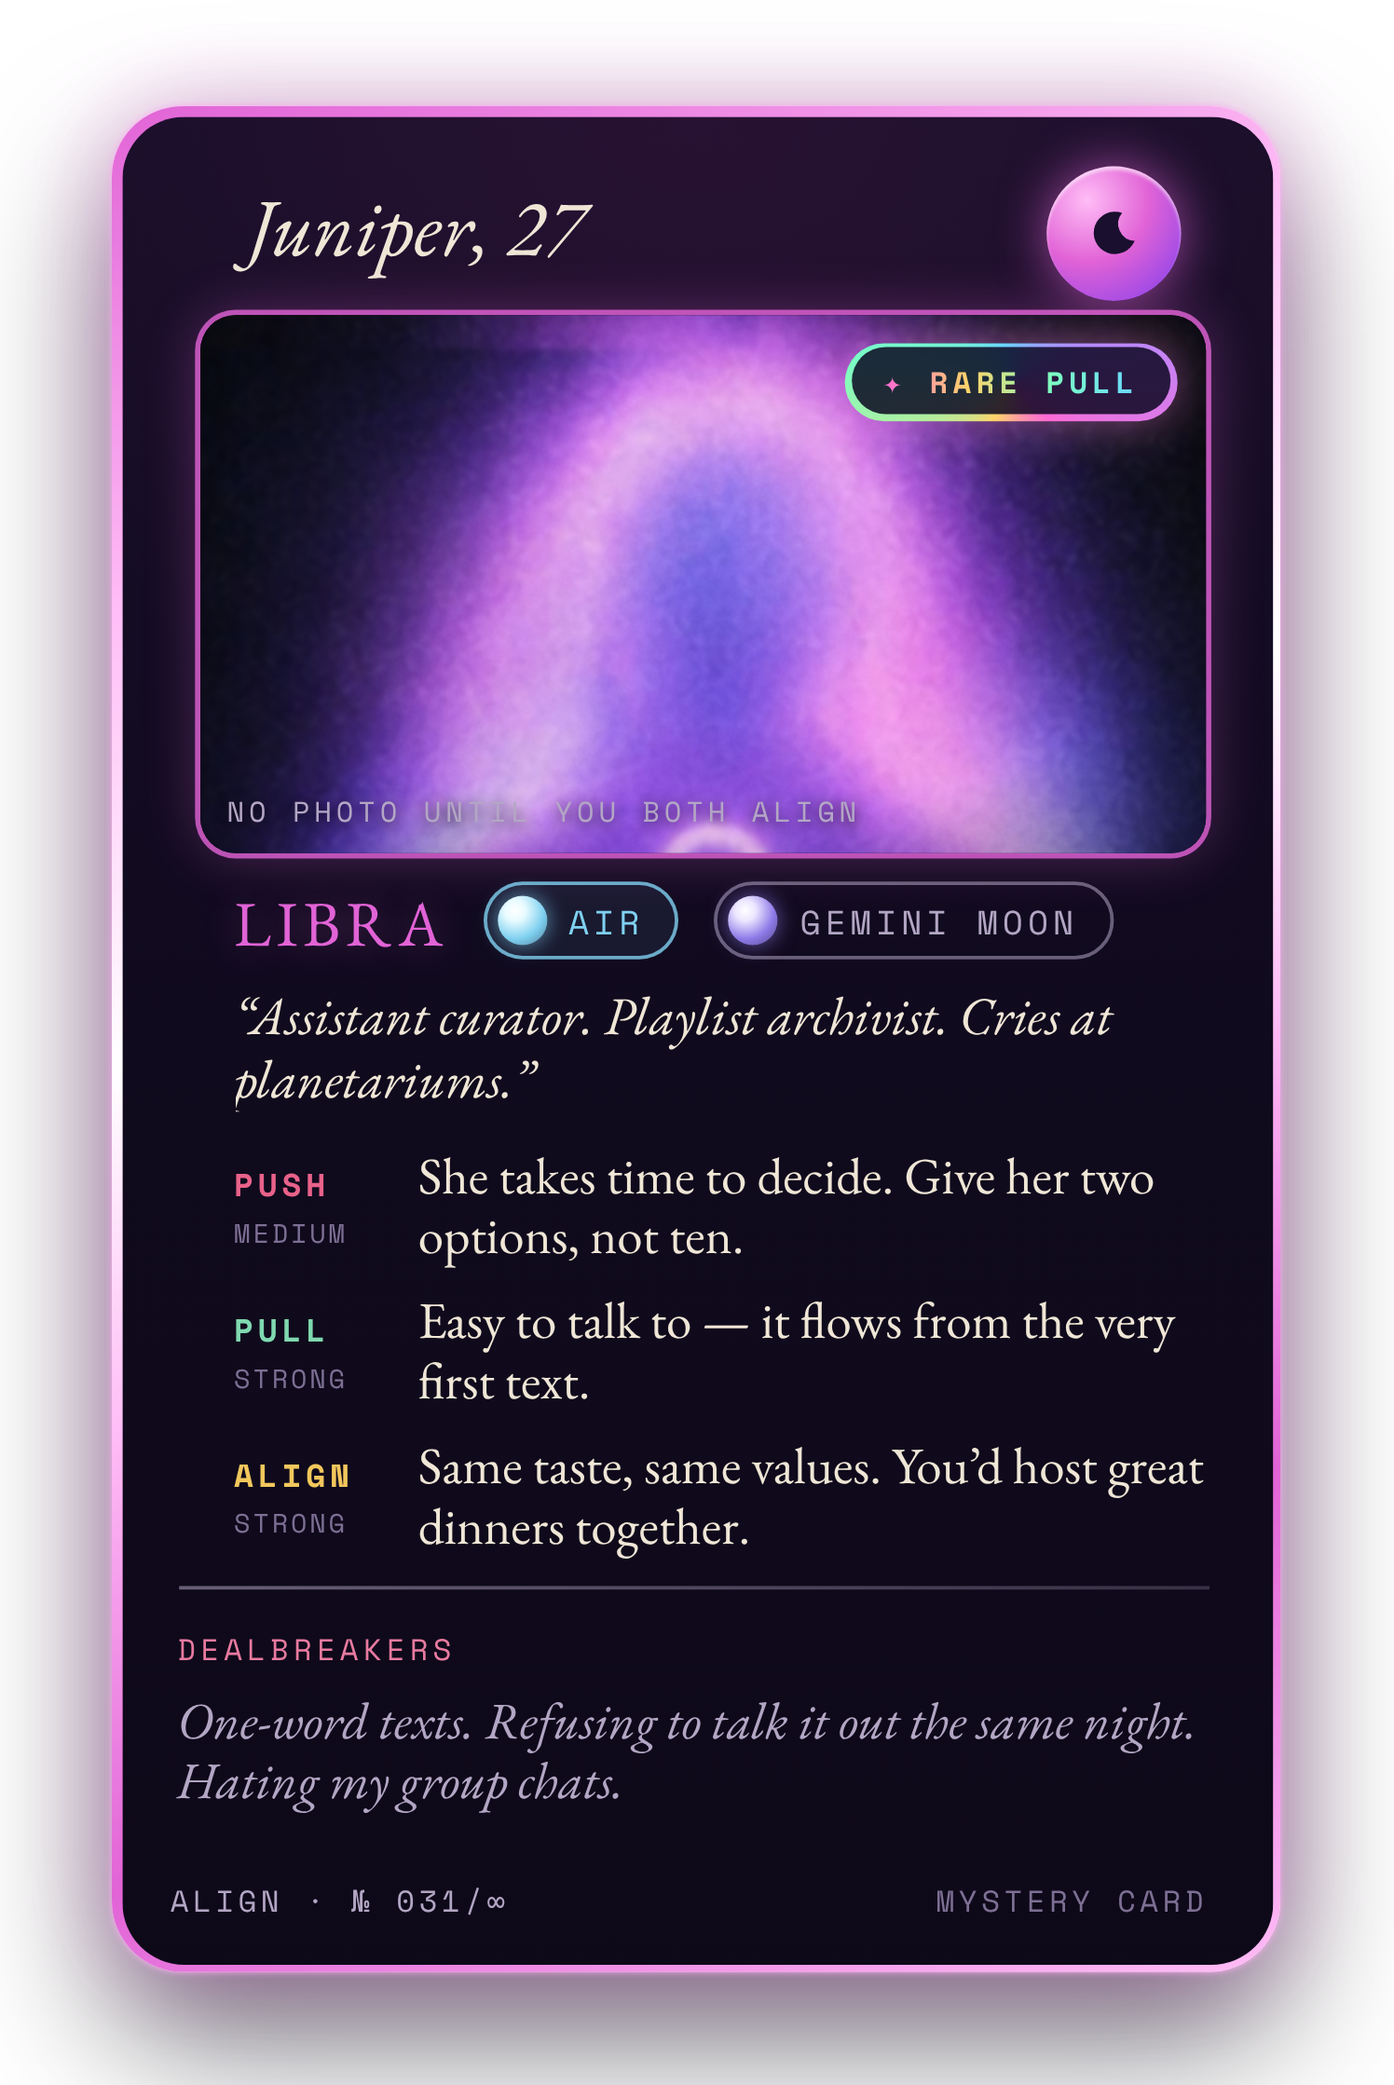
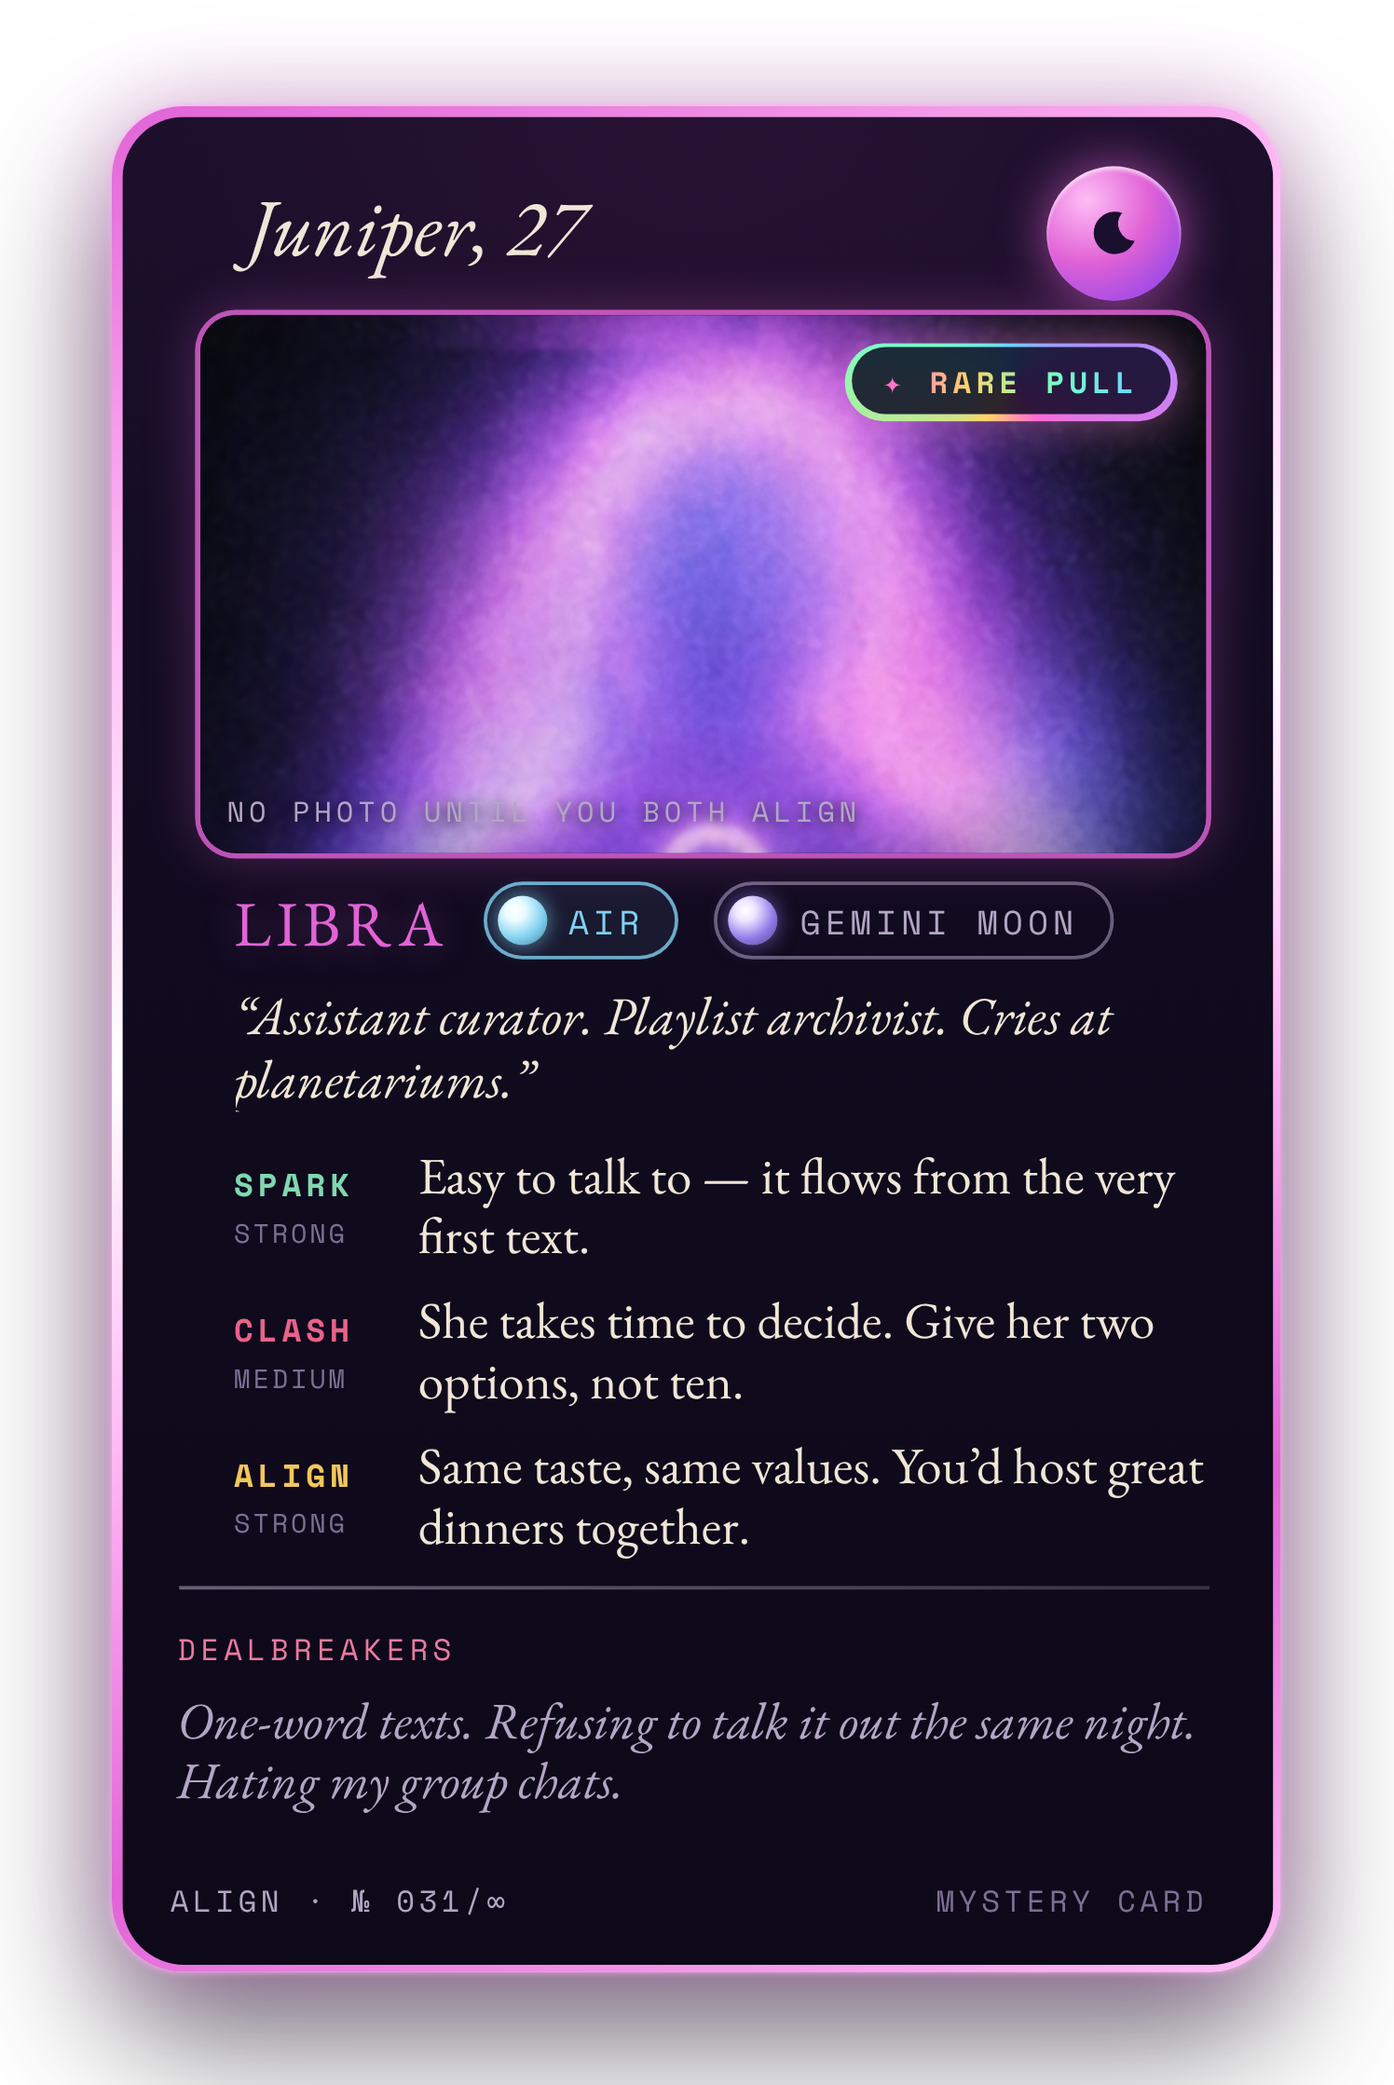
Promo: Spark · Clash · Align cards, Juniper past her shoulders, the website's pixel "stars aligned"
- Deck cards (card-profile-1…6, peek) re-captured with the beta's
  Spark / Clash / Align rows in place of Push / Pull / Align.
- card-reveal.png re-captured with Juniper's photo framed lower (72%), so
  it runs past her shoulders instead of stopping at her chin; the S3 photo
  window matches it (imgTop 629).
- S3's lock is now the beta website's pixel moment: sparkle swirls in, the
  seven chakra stars drop into a column with a beam, then dotted rings,
  debris and twinkles, stepped at 15 fps on a coarse pixel grid. It
  replaces the glowing stars, lines, beam, dust, shockwave rings, god-rays
  and the gold burst at 8.72; the rings land on the same beat.

Claude-Session: https://claude.ai/code/session_01WS8NKXHK6WXc3JEpqqCuLq

Changed region(s): [[0.3075, 0.555, 0.8302, 0.6783], [0.1537, 0.555, 0.246, 0.6783]]

diff --git a/promo/src/scenes/s3-veil.js b/promo/src/scenes/s3-veil.js
@@ -5,7 +5,7 @@ import { VERT, W, H, A, IMG, PEOPLE, SANS, SERIF, MONO, fill, img, Ticks, makeCa
 // card-reveal.png 1560×2740: card body x 66..1494; photo window x 118..1443, y 314..1207.
 // The window shows juniper.jpg cover-fitted to the window width (1325px → image
 // 1325×1767), with the window top sitting 312px below the image top.
-const REV = { w: 1560, h: 2740, win: { x: 118, y: 314, w: 1325, h: 893 }, imgTop: 582 } // imgTop raised (was 312) so her head sits higher in the window with headroom, chin clear
+const REV = { w: 1560, h: 2740, win: { x: 118, y: 314, w: 1325, h: 893 }, imgTop: 629 } // 72% down the photo, matching card-reveal.png: her head near the top, framed past the shoulders instead of at the neck
 const D = VERT ? 0.53 : 0.35 // display scale → card body ≈ 500px wide, 959px PNG tall (vertical: ≈ 757px wide)
 // card-back.png 1528×2347: body x 120..1439 (1320 wide) → match the front body width
 const BACK = { w: 1528, h: 2347, markX: 782, markY: 1134 }
@@ -216,6 +216,96 @@ const SQ = VERT ? 1.5 : 0.62                                  // orbit ellipse s
 const SZ = VERT ? 1.35 : 1                       // star size multiplier
 const Z_PUSH = VERT ? 1.42 : 1.6                 // camera zoom when parked on the photo window
 
+// ── "the stars aligned", ported from the beta website (same sprites, beats and 15 fps stepping) ──
+// t0 is set so the rings burst exactly on LOCK. All coords are art pixels on a 1/PIX grid over the frame.
+const PIX = VERT ? 7 : 4                         // screen px per art pixel
+const PA = { t0: LOCK - 1.6, first: 1.05, step: 0.07, beam: 1.54, rings: 1.6, end: 3.5, fps: 15 }
+const PA_SPARKS = ['#f2c75c', '#fff4cf', '#ffbdf6', '#c9b6f0', '#efe6d6']
+const PA_SPRITES = [
+  ['X'],
+  ['.X.', 'XWX', '.X.'],
+  ['..X..', '..X..', 'XXWXX', '..X..', '..X..'],
+  ['...X...', '...X...', '..XWX..', 'XXWWWXX', '..XWX..', '...X...', '...X...'],
+  ['....X....', '....X....', '...XWX...', '..X.W.X..', 'XXWWWWWXX', '..X.W.X..', '...XWX...', '....X....', '....X....'],
+].map((rows) => rows.map((r) => [...r]))
+function paStar(ctx, x, y, size, color) {
+  const s = PA_SPRITES[Math.max(0, Math.min(PA_SPRITES.length - 1, size))]
+  const o = (s.length - 1) / 2, cx = Math.round(x), cy = Math.round(y)
+  for (let r = 0; r < s.length; r++) for (let c = 0; c < s[r].length; c++) {
+    const ch = s[r][c]; if (ch === '.') continue
+    ctx.fillStyle = ch === 'W' ? '#ffffff' : color; ctx.fillRect(cx + c - o, cy + r - o, 1, 1)
+  }
+}
+function paRing(ctx, x, y, rad, color) {
+  const n = Math.max(12, Math.round(rad * 2.2)); ctx.fillStyle = color
+  for (let i = 0; i < n; i++) { const a = (i / n) * Math.PI * 2; ctx.fillRect(Math.round(x + Math.cos(a) * rad), Math.round(y + Math.sin(a) * rad * 0.86), 1, 1) }
+}
+// the card the moment plays over (screen px): sets how far the swirl and twinkles reach
+const PA_CARD = VERT ? { w: 700, h: 1100 } : { w: 460, h: 720 }
+const PA_SET = (() => {
+  const r = rng(17 + 13)
+  const cx = CC.x / PIX, cy = CC.y / PIX
+  const gap = Math.round(((COL_Y(0) - COL_Y(1))) / PIX)
+  const seven = CHAKRA_HEX.map((c, i) => ({ x: cx, y: COL_Y(i) / PIX, c, at: PA.first + i * PA.step }))
+  const swirl = Array.from({ length: 28 }, (_, i) => ({ a: r() * Math.PI * 2, d: 0.6 + r() * 0.4, spin: (r() < 0.5 ? -1 : 1) * (1.6 + r() * 1.4), slot: seven[i % 7], c: PA_SPARKS[i % 5], born: r() * 0.35, ph: Math.floor(r() * 4) }))
+  const debris = seven.flatMap((s) => Array.from({ length: 9 }, () => { const a = r() * Math.PI * 2, v = 40 + r() * 70; return { x: s.x, y: s.y, vx: Math.cos(a) * v, vy: Math.sin(a) * v - 14, c: r() < 0.3 ? '#fff4cf' : s.c, life: 0.9 + r() * 0.9 } }))
+  const twinkles = Array.from({ length: 14 }, () => ({ x: cx + (r() - 0.5) * (PA_CARD.w / PIX) * 1.3, y: cy + (r() - 0.5) * (PA_CARD.h / PIX) * 1.05, c: PA_SPARKS[Math.floor(r() * 5)], ph: Math.floor(r() * 6), at: 0.25 + r() * 0.9 }))
+  return { cx, cy, gap, seven, swirl, debris, twinkles, rx: PA_CARD.w / PIX, ry: (PA_CARD.h * 0.725) / PIX }
+})()
+/** draws the pixel moment for time t on ctx (art-pixel grid); marks ctx.canvas._on when anything is drawn */
+function drawPixelAlign(ctx, time) {
+  const cv = ctx.canvas
+  ctx.clearRect(0, 0, cv.width, cv.height); cv._on = false
+  const local = time - PA.t0
+  if (local < 0 || local >= PA.end || time > FLIP_IN.m + 0.12) return   // clear the photo before the veil lifts
+  cv._on = true
+  const f = Math.floor(local * PA.fps), t = f / PA.fps
+  const { cx, cy, gap, seven, swirl, debris, twinkles, rx, ry } = PA_SET
+  if (t < PA.rings) {
+    for (const s of swirl) {
+      if (t < s.born || t >= s.slot.at) continue
+      const p = clamp((t - s.born) / (s.slot.at - s.born)) ** 2.4
+      const a = s.a + s.spin * p * Math.PI
+      paStar(ctx, s.slot.x + Math.cos(a) * rx * s.d * (1 - p), s.slot.y + Math.sin(a) * ry * s.d * (1 - p), p > 0.7 ? 2 : [1, 2, 3, 2][(f + s.ph) % 4], p > 0.55 ? s.slot.c : s.c)
+    }
+    for (const s of seven) {
+      if (t < s.at) continue
+      const since = t - s.at
+      paStar(ctx, s.x, s.y, since < 0.07 ? 4 : 3, s.c)
+      if (since < 0.2) { const k = 6 + Math.round(since * 60); ctx.fillStyle = s.c; ctx.fillRect(s.x - k, s.y, 2, 1); ctx.fillRect(s.x + k - 1, s.y, 2, 1) }
+    }
+    if (t >= PA.beam) {
+      const top = seven[6].y - gap * 0.9, bot = seven[0].y + gap * 0.9, even = f % 2 === 0
+      ctx.fillStyle = even ? '#ffffff' : '#fff4cf'; ctx.fillRect(Math.round(cx), Math.round(top), 1, Math.round(bot - top))
+      ctx.fillStyle = even ? 'rgba(242,199,92,0.9)' : 'rgba(255,255,255,0.7)'
+      ctx.fillRect(Math.round(cx) - 1, Math.round(top + gap * 0.4), 1, Math.round(bot - top - gap * 0.8))
+      ctx.fillRect(Math.round(cx) + 1, Math.round(top + gap * 0.4), 1, Math.round(bot - top - gap * 0.8))
+      for (const s of seven) paStar(ctx, s.x, s.y, 4, s.c)
+    }
+  } else {
+    const tb = t - PA.rings
+    // rings grow at the website's rate relative to the card (its card was 110 art px wide)
+    const k = rx / 110
+    if (tb < 0.6) {
+      paRing(ctx, cx, cy, (8 + tb * 230) * k, tb < 0.3 ? '#fff4cf' : '#f2c75c')
+      if (tb > 0.08) paRing(ctx, cx, cy, (4 + (tb - 0.08) * 170) * k, '#ffbdf6')
+    }
+    for (const d of debris) {
+      const life = 1 - tb / d.life
+      if (life <= 0 || (life < 0.25 && f % 2)) continue
+      const x = d.x + d.vx * k * tb, y = d.y + (d.vy * tb + 26 * tb * tb) * k
+      ctx.fillStyle = d.c
+      for (let j = 1; j <= 3; j++) ctx.fillRect(Math.round(x - d.vx * k * 0.022 * j), Math.round(y - (d.vy + 52 * tb) * k * 0.022 * j), 1, 1)
+      paStar(ctx, x, y, life > 0.7 ? 3 : life > 0.4 ? 2 : 1, d.c)
+    }
+    if (tb < 0.2) for (const s of seven) paStar(ctx, s.x, s.y, 4, s.c)
+    for (const s of twinkles) {
+      if (tb < s.at || (tb > 1.55 && f % 2)) continue
+      paStar(ctx, s.x, s.y, [0, 1, 2, 3, 2, 1][(f + s.ph) % 6], s.c)
+    }
+  }
+}
+
 function starState(i, t) {
   const L = STAR_LOCK[i]
   const e = STAR_IN + ENTER_ORDER[i] * 0.065
@@ -419,6 +509,8 @@ export function sceneVeil(stage) {
   const fxCv = el('canvas', { position: 'absolute', left: 0, top: 0, width: W + 'px', height: H + 'px' }, shakeBox)
   fxCv.width = W; fxCv.height = H
   const fx = fxCv.getContext('2d')
+  const pxCv = document.createElement('canvas'); pxCv.width = Math.ceil(W / PIX); pxCv.height = Math.ceil(H / PIX)
+  const px = pxCv.getContext('2d')
   const DUST = (() => { const r = rng(515); return Array.from({ length: 170 }, (_, i) => ({ x: r() * W, y: r() * H, s: 0.7 + r() * 1.8, a: 0.35 + r() * 0.65, col: i % 5 === 0 ? '242,199,92' : i % 7 === 0 ? CHAKRA[i % 7].join(',') : '255,246,234', ph: r() * 6.28 })) })()
   const SPK2 = (() => { const r = rng(616); return Array.from({ length: 18 }, () => ({ a: r() * 6.2832, r0: 380 + r() * 80, r1: 560 + r() * 160, d: r() * 0.16, s: 10 + r() * 16, gold: r() < 0.45 })) })()
 
@@ -518,7 +610,7 @@ export function sceneVeil(stage) {
       const fl = t < LOCK ? ease.inQuad(prog(t, LOCK - 0.06, LOCK)) * 0.5 : 0.78 * (1 - ease.outCubic(prog(t, LOCK, LOCK + 0.32)))
       bigFlash.style.opacity = String(fl)
       const rayO = t < LOCK ? 0.2 * ease.inQuad(prog(t, 8.4, LOCK)) : 0.7 * (1 - ease.inOutQuad(prog(t, LOCK + 0.05, 9.6)))
-      rays.style.opacity = String(rayO)
+      rays.style.opacity = String(0 * rayO)
       rays.style.transform = `rotate(${(t - 8) * 7}deg) scale(${t < LOCK ? 0.7 : lerp(0.75, 1.15, ease.outCubic(prog(t, LOCK, 9.6)))})`
 
       // ══ reveal card: flip in, veil lift, aura-cam, resolve ══
@@ -605,102 +697,12 @@ export function sceneVeil(stage) {
       // ══ canvas: dust, trails, lines, stars, rings, resolve sparkles ══
       fx.setTransform(1, 0, 0, 1, 0, 0); fx.clearRect(0, 0, W, H)
       fx.globalCompositeOperation = 'lighter'
-      // dust pulled toward the line, then blown out by the shockwave
-      const dustIn = prog(t, 7.75, 8.1) * (1 - ease.outQuad(prog(t, LOCK, LOCK + 0.45)))
-      if (dustIn > 0) {
-        const pullAt = (tt) => ease.inCubic(prog(tt, 7.9, LOCK)) * 0.94
-        const blow = ease.outCubic(prog(t, LOCK, LOCK + 0.75))
-        for (const d of DUST) {
-          const pos = (tt) => {
-            const pl = pullAt(tt)
-            let x = lerp(d.x, CC.x + (d.x - CC.x) * 0.03, pl), y = lerp(d.y, lerp(d.y, CC.y, 0.25), pl)
-            if (tt > LOCK) { const dx = x - CC.x, dy = y - CC.y, l = Math.hypot(dx, dy) || 1; x += dx / l * 900 * blow; y += dy / l * 900 * blow }
-            return [x, y]
-          }
-          const [x, y] = pos(t), [px, py] = pos(t - (t > LOCK ? 0.012 : 0.05))
-          const al = d.a * dustIn * (0.35 + 0.65 * ten + 0.6 * post) * (0.6 + 0.4 * Math.sin(t * 6 + d.ph))
-          if (al < 0.02) continue
-          fx.strokeStyle = `rgba(${d.col},${al.toFixed(3)})`; fx.lineWidth = d.s; fx.lineCap = 'round'
-          fx.beginPath(); fx.moveTo(px, py); fx.lineTo(x + (x === px ? 0.01 : 0), y); fx.stroke()
-        }
-      }
-      // stars
-      const collapse = ease.inCubic(prog(t, FLIP_IN.a, FLIP_IN.m + 0.04))
-      if (t < FLIP_IN.m + 0.05) {
-        const SS = CHAKRA_HEX.map((_, i) => starState(i, t))
-        // constellation lines snapping between neighbours, then the column beam
-        for (let i = 0; i < 6; i++) {
-          const A1 = SS[i], B1 = SS[i + 1]
-          if (!A1 || !B1) continue
-          const mc = Math.min(A1.c, B1.c)
-          const lockT = Math.max(STAR_LOCK[i], STAR_LOCK[i + 1])
-          let al = 0.4 * clamp((mc - 0.4) / 0.45)
-          if (t >= lockT) al = lerp(1, 0.45, ease.outQuad(prog(t, lockT, lockT + 0.3)))
-          if (t >= LOCK) al = Math.max(al, lerp(1, 0.55, ease.outQuad(prog(t, LOCK, LOCK + 0.4))))
-          al *= 1 - collapse
-          if (al < 0.01) continue
-          fx.strokeStyle = `rgba(255,236,200,${(al * 0.35).toFixed(3)})`; fx.lineWidth = 7
-          fx.beginPath(); fx.moveTo(A1.x, A1.y); fx.lineTo(B1.x, B1.y); fx.stroke()
-          fx.strokeStyle = `rgba(255,248,236,${al.toFixed(3)})`; fx.lineWidth = 1.6
-          fx.beginPath(); fx.moveTo(A1.x, A1.y); fx.lineTo(B1.x, B1.y); fx.stroke()
-        }
-        // column beam after the lock
-        if (t >= LOCK - 0.04) {
-          const bo = (t < LOCK ? prog(t, LOCK - 0.04, LOCK) : lerp(1, 0.35, ease.outQuad(prog(t, LOCK, LOCK + 0.45)))) * (1 - collapse)
-          const BW = VERT ? 85 : 60
-          const bg = fx.createLinearGradient(CC.x - BW, 0, CC.x + BW, 0)
-          bg.addColorStop(0, 'rgba(255,240,214,0)'); bg.addColorStop(0.5, `rgba(255,244,226,${(0.55 * bo).toFixed(3)})`); bg.addColorStop(1, 'rgba(255,240,214,0)')
-          fx.fillStyle = bg; fx.fillRect(CC.x - BW, -20, BW * 2, H + 40)
-        }
-        SS.forEach((s, i) => {
-          if (!s) return
-          const rgb = CHAKRA[i].join(',')
-          // trail
-          const e0 = STAR_IN + ENTER_ORDER[i] * 0.065
-          let prev = [s.x, s.y]
-          for (let j = 1; j <= 14; j++) {
-            const tj = t - j * 0.016
-            if (tj < e0) break
-            const q = starState(i, tj); if (!q) break
-            const al = (1 - j / 15) * 0.7 * (1 - collapse)
-            fx.strokeStyle = `rgba(${rgb},${al.toFixed(3)})`; fx.lineWidth = lerp(7, 1, j / 14) * SZ
-            fx.beginPath(); fx.moveTo(prev[0], prev[1]); fx.lineTo(q.x, q.y); fx.stroke()
-            prev = [q.x, q.y]
-          }
-          const L = STAR_LOCK[i]
-          const flare = t >= L ? 1 - ease.outQuad(prog(t, L, L + 0.35)) : 0
-          const lockFlare = t >= LOCK ? 1 - ease.outQuad(prog(t, LOCK, LOCK + 0.6)) : 0
-          let sz = SZ * (1 + 0.14 * Math.sin(t * 9 + i * 1.7)) * (0.85 + 0.35 * ten) * (1 + 0.9 * flare + 1.2 * lockFlare)
-          let x = s.x, y = s.y
-          if (collapse > 0) { x = lerp(x, CC.x, collapse); y = lerp(y, CC.y - 40, collapse * 0.6); sz *= 1 - collapse }
-          const ent = Math.min(1, s.enter * 3)
-          if (sz <= 0.01) return
-          const G = 46 * sz
-          const gg = fx.createRadialGradient(x, y, 0, x, y, G)
-          gg.addColorStop(0, `rgba(${rgb},${0.75 * ent})`); gg.addColorStop(0.3, `rgba(${rgb},${0.28 * ent})`); gg.addColorStop(1, `rgba(${rgb},0)`)
-          fx.fillStyle = gg; fx.fillRect(x - G, y - G, G * 2, G * 2)
-          // diffraction spikes
-          const sp = (22 + 30 * ten + 70 * flare + 90 * lockFlare) * sz
-          fx.strokeStyle = `rgba(255,250,240,${(0.55 * ent).toFixed(3)})`; fx.lineWidth = 1.4
-          fx.beginPath(); fx.moveTo(x - sp, y); fx.lineTo(x + sp, y); fx.moveTo(x, y - sp * 0.7); fx.lineTo(x, y + sp * 0.7); fx.stroke()
-          const cg = fx.createRadialGradient(x, y, 0, x, y, 10 * sz)
-          cg.addColorStop(0, `rgba(255,255,255,${ent})`); cg.addColorStop(0.45, `rgba(${rgb},${0.9 * ent})`); cg.addColorStop(1, `rgba(${rgb},0)`)
-          fx.fillStyle = cg; fx.beginPath(); fx.arc(x, y, 10 * sz, 0, 6.2832); fx.fill()
-        })
-      }
-      // shockwave rings
-      if (t >= LOCK && t < LOCK + 0.9) {
-        const RINGS = VERT ? [[0, 1250, 34, '255,246,230'], [0.07, 1000, 20, '201,166,255'], [0.15, 780, 9, '242,199,92']]
-          : [[0, 1150, 30, '255,246,230'], [0.07, 900, 18, '201,166,255'], [0.15, 700, 8, '242,199,92']]
-        const RY = VERT ? 1.3 : 0.92, R0 = VERT ? 130 : 90
-        RINGS.forEach(([d, R1, w0, rgb]) => {
-          const q = prog(t, LOCK + d, LOCK + d + 0.7)
-          if (q <= 0 || q >= 1) return
-          const R = lerp(R0, R1, ease.outCubic(q))
-          fx.strokeStyle = `rgba(${rgb},${(0.85 * (1 - ease.inQuad(q))).toFixed(3)})`; fx.lineWidth = lerp(w0, 1.5, q)
-          fx.beginPath(); fx.ellipse(CC.x, CC.y, R, R * RY, 0, 0, 6.2832); fx.stroke()
-        })
-      }
+      // the stars align: the beta website's pixel moment (sparkle swirls in, the seven drop into a
+      // column with a beam, then dotted rings, debris and twinkles), drawn on a coarse grid and blown up
+      fx.globalCompositeOperation = 'source-over'
+      drawPixelAlign(px, t)
+      if (px.canvas._on) { fx.imageSmoothingEnabled = false; fx.drawImage(px.canvas, 0, 0, px.canvas.width * PIX, px.canvas.height * PIX) }
+      fx.globalCompositeOperation = 'lighter'
       // resolve sparkles around the photo window (camera is parked on it: window centre = screen centre)
       const rk = prog(t, RES.peak - 0.03, RES.peak + 0.75)
       if (rk > 0 && rk < 1) {

diff --git a/promo/src/scenes/fx-stars.js b/promo/src/scenes/fx-stars.js
@@ -295,7 +295,7 @@ export function fxStardust(ctx, tr) {
     if (w > 0.005) drawField(ctx, P, t, w)
   }
   ctx.globalAlpha = 1
-  for (const B of BURSTS) { const t = T(B.t); if (t > B.t && t < B.t + B.life + 0.15) drawBurst(ctx, B, t) }
+  for (const B of BURSTS) { if (B.t === 8.72) continue /* S3: s3-veil.js draws the website's pixel burst */; const t = T(B.t); if (t > B.t && t < B.t + B.life + 0.15) drawBurst(ctx, B, t) }
   if (tl > 27.4 && tl < 28.4) drawChakra(ctx, tl)
   for (const S of SHOOTS) drawShoot(ctx, S, T(S.t0))
   ctx.restore()
